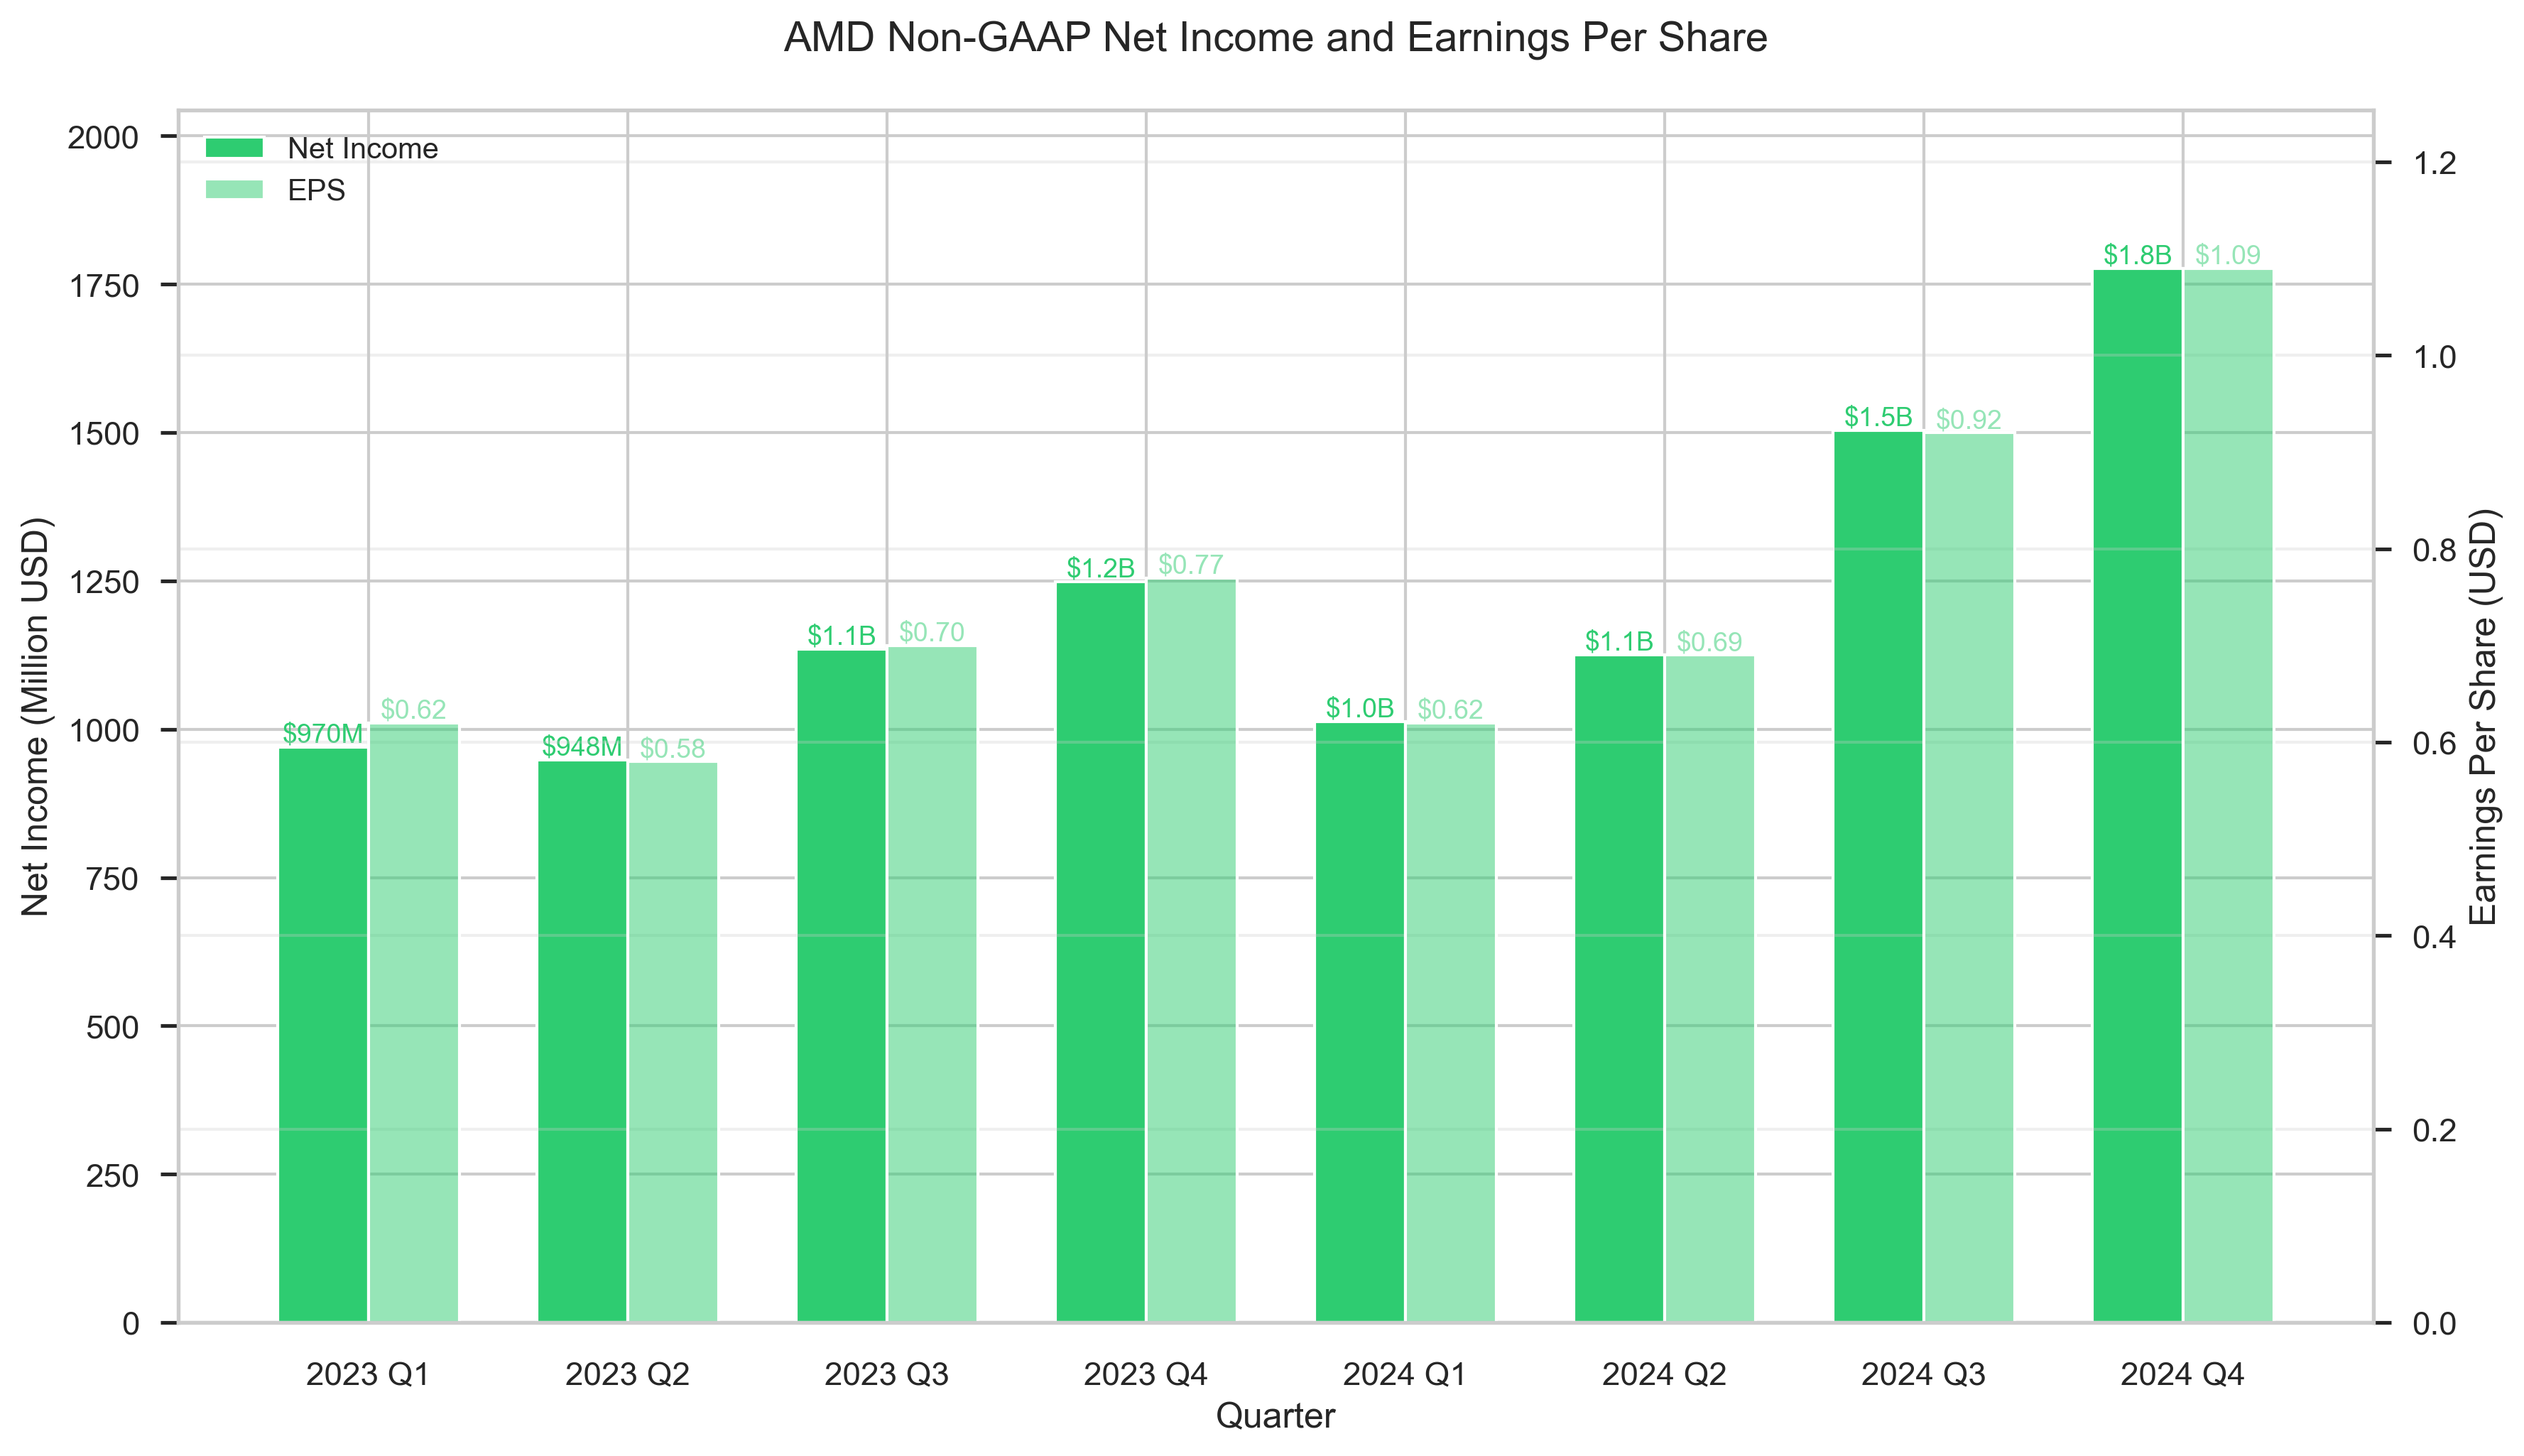
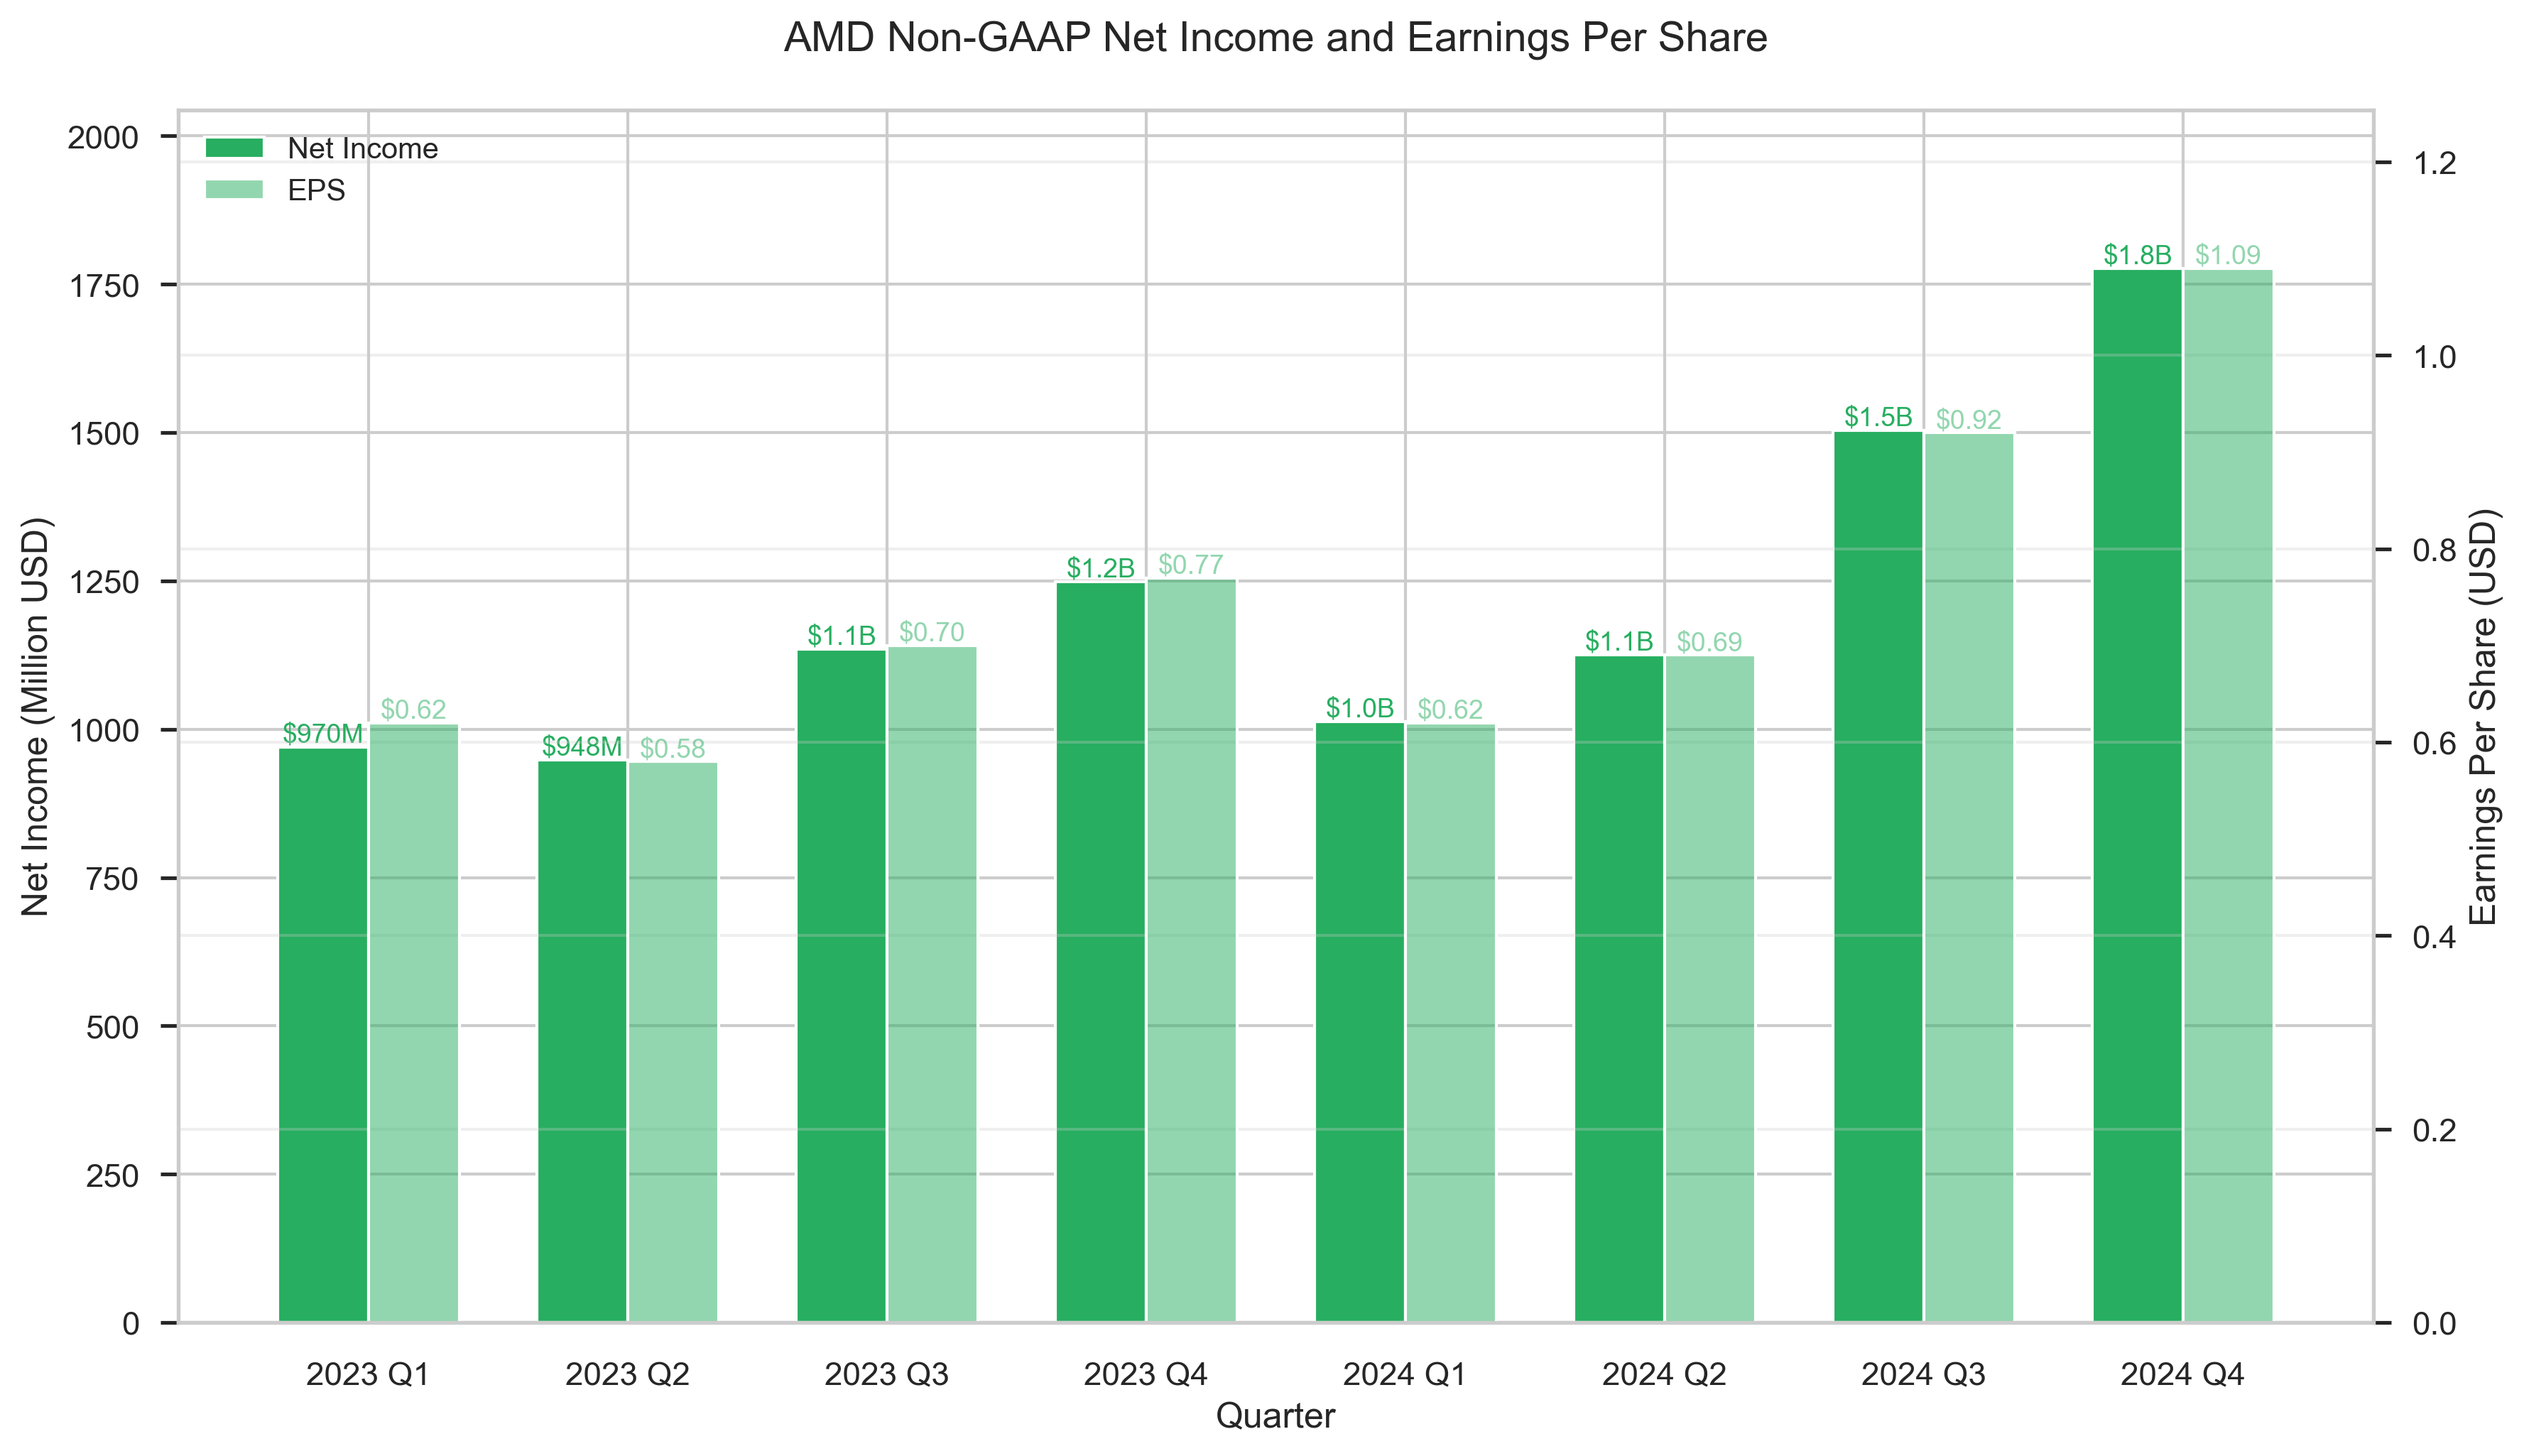
add processing for net income and eps; add readme with prospectus analyssi

diff --git a/docs/financial/analyze_profit.py b/docs/financial/analyze_profit.py
@@ -31,7 +31,7 @@ def generate_profit_chart(df, prefix):
     x_values = np.arange(len(quarters))
 
     # Set up colors (using same color with different saturations)
-    base_color = '#27ae60' if prefix == 'gaap' else '#2ecc71'  # Dark green for GAAP, Light green for non-GAAP
+    base_color = '#27ae60'  # Dark green for GAAP, Light green for non-GAAP
     colors = {
         'income': base_color,          # More saturated
         'eps': f'{base_color}80'       # Less saturated (adding alpha)

diff --git a/README.md b/README.md
@@ -4,9 +4,7 @@
 
 ## 交易概述
 
-AMD收购Xilinx，采用全股票交易结构，每股Xilinx普通股将换取1.7234股AMD普通股。AMD将为此次并购发行约4.236亿股股票。原Xilinx股东将持有合并后AMD约25.9%的股份，远AMD股东持有约74.1%。
-
-交易签署前12个月合并收入约116亿美元，新公司有望在合并完成后的18个月内实现3亿美元的协同效益，管理层预期将总可寻址市场(TAM)扩大至1100亿美元。
+AMD收购Xilinx，采用全股票交易结构，每股Xilinx普通股将换取1.7234股AMD普通股。AMD将为此次并购发行约4.236亿股股票。原Xilinx股东将持有合并后AMD约25.9%的股份，远AMD股东持有约74.1%。交易签署前12个月合并收入约116亿美元，新公司有望在合并完成后的18个月内实现3亿美元的协同效益，管理层预期将总可寻址市场(TAM)扩大至1100亿美元。
 
 ## 战略意义分析
 
@@ -22,27 +20,57 @@ AMD收购Xilinx，采用全股票交易结构，每股Xilinx普通股将换取1.
 
 # 财报分析
 
+### 营业收入
+
+营业收入构成图展示了AMD总营业收入的核心组成部分：销售成本（COGS）和毛利。图表中包含了毛利率走势线（以百分比表示），同时展示GAAP和非GAAP指标，用于追踪盈利能力趋势。
+
+- 毛利率保持在45%-50%的稳定区间
+- 营业收入规模呈现季度波动，整体维持在50-70亿美元区间，近两个季度显著增长
+
 <div align="center">
 <img src="./docs/financial/figures/gaap_revenue_composition.png" height='300'>
 <img src="./docs/financial/figures/nongaap_revenue_composition.png" height='300'>
 </div>
+
+### 运营表现
+
+运营表现图展示了AMD的运营效率，通过对比运营收入和运营费用的关系，跟踪两个关键百分比指标：运营利润率和运营费用占营业收入比，反映了公司的运营效率和成本管理能力。
+
+- 运营利润率呈现在周期波动的基础上呈现上升趋势，并在最近两个季度突破10%
+- 运营费用占营业收入比率保持在GAAP 40% (NON-GAAP 30%)左右的水平
 
 <div align="center">
 <img src="./docs/financial/figures/gaap_operating_performance.png" height='300'>
 <img src="./docs/financial/figures/nongaap_operating_performance.png" height='300'>
 </div>
 
+### 股东回报
+
+股东回报分析图通过双轴展示了AMD的最终经营成果：归属于普通股股东的净利润（柱状图，左轴）和每股收益（柱状图，右轴）。GAAP和非GAAP版本的对比为投资者提供了不同维度的业绩评估视角。
+
+- 净利润和每股收益具备非常显著的周期性
+- 近两个季度的增长体现在了NON-GAAP当中，但并未体现于GAAP
+
 <div align="center">
 <img src="./docs/financial/figures/gaap_profit_metrics.png" height='300'>
 <img src="./docs/financial/figures/nongaap_profit_metrics.png" height='300'>
 </div>
+
+### 业务板块
+
+业务板块分析图展示了AMD各主要业务板块的表现，包括数据中心、客户端、游戏和嵌入式。图表包含各板块的营业收入贡献、运营利润分布和利润率。
+
+- 相比于最初的游戏板块，数据中心板块逐渐成为公司最大营业收入来源，占比接近60%
+- 数据中心板块和游戏板块在周期性变动的过程当中持续增长
+- 游戏板块持续萎缩，并在2024年显著下降；嵌入式板块同样收缩明显，但在最近两个季度有所回升
+
+这种分部视图有助于理解各业务单元的相对实力和盈利能力。
 
 <div align="center">
 <img src="./docs/financial/figures/segment_revenue.png" height='200'>
 <img src="./docs/financial/figures/segment_operating_income.png" height='200'>
 <img src="./docs/financial/figures/segment_margins.png" height='200'>
 </div>
-
 
 # 附录
 
